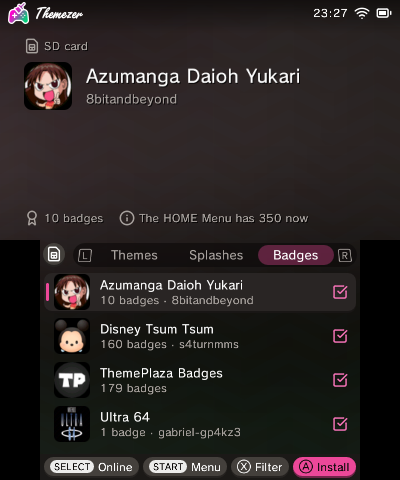
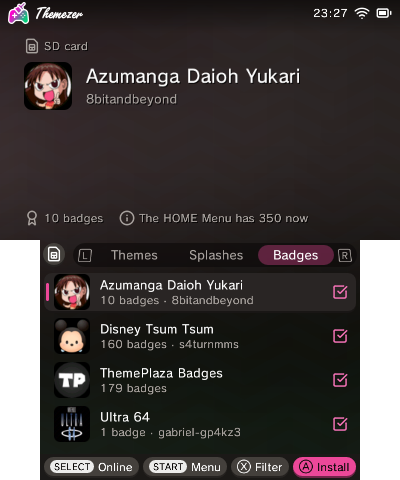
Screenshots are see-through beside the bottom screen
The autopilot's shots filled the space either side of the bottom screen with black; it's left see-through now, and
the README's screenshots have it cut out.

Changed region(s): [[0.9, 0.5, 1.0, 1.0], [0.0, 0.5, 0.12, 1.0]]

diff --git a/source/gfx/renderer.cpp b/source/gfx/renderer.cpp
@@ -210,9 +210,8 @@ Image captureScreens()
     constexpr int kTop = 400;
     constexpr int kBottom = 320;
     constexpr int kHeight = 240;
+    // see-through beside the bottom screen, where the console has nothing
     Image image(kTop, kHeight * 2);
-    for (size_t i = 0; i < image.pixels.size(); i += 4)
-        image.pixels[i + 3] = 0xFF;
     for (int which = 0; which < 2; ++which)
     {
         const gfxScreen_t screen = which == 0 ? GFX_TOP : GFX_BOTTOM;
@@ -235,6 +234,7 @@ Image captureScreens()
                 out[0] = pixel[2];
                 out[1] = pixel[1];
                 out[2] = pixel[0];
+                out[3] = 0xFF;
             }
         }
     }
